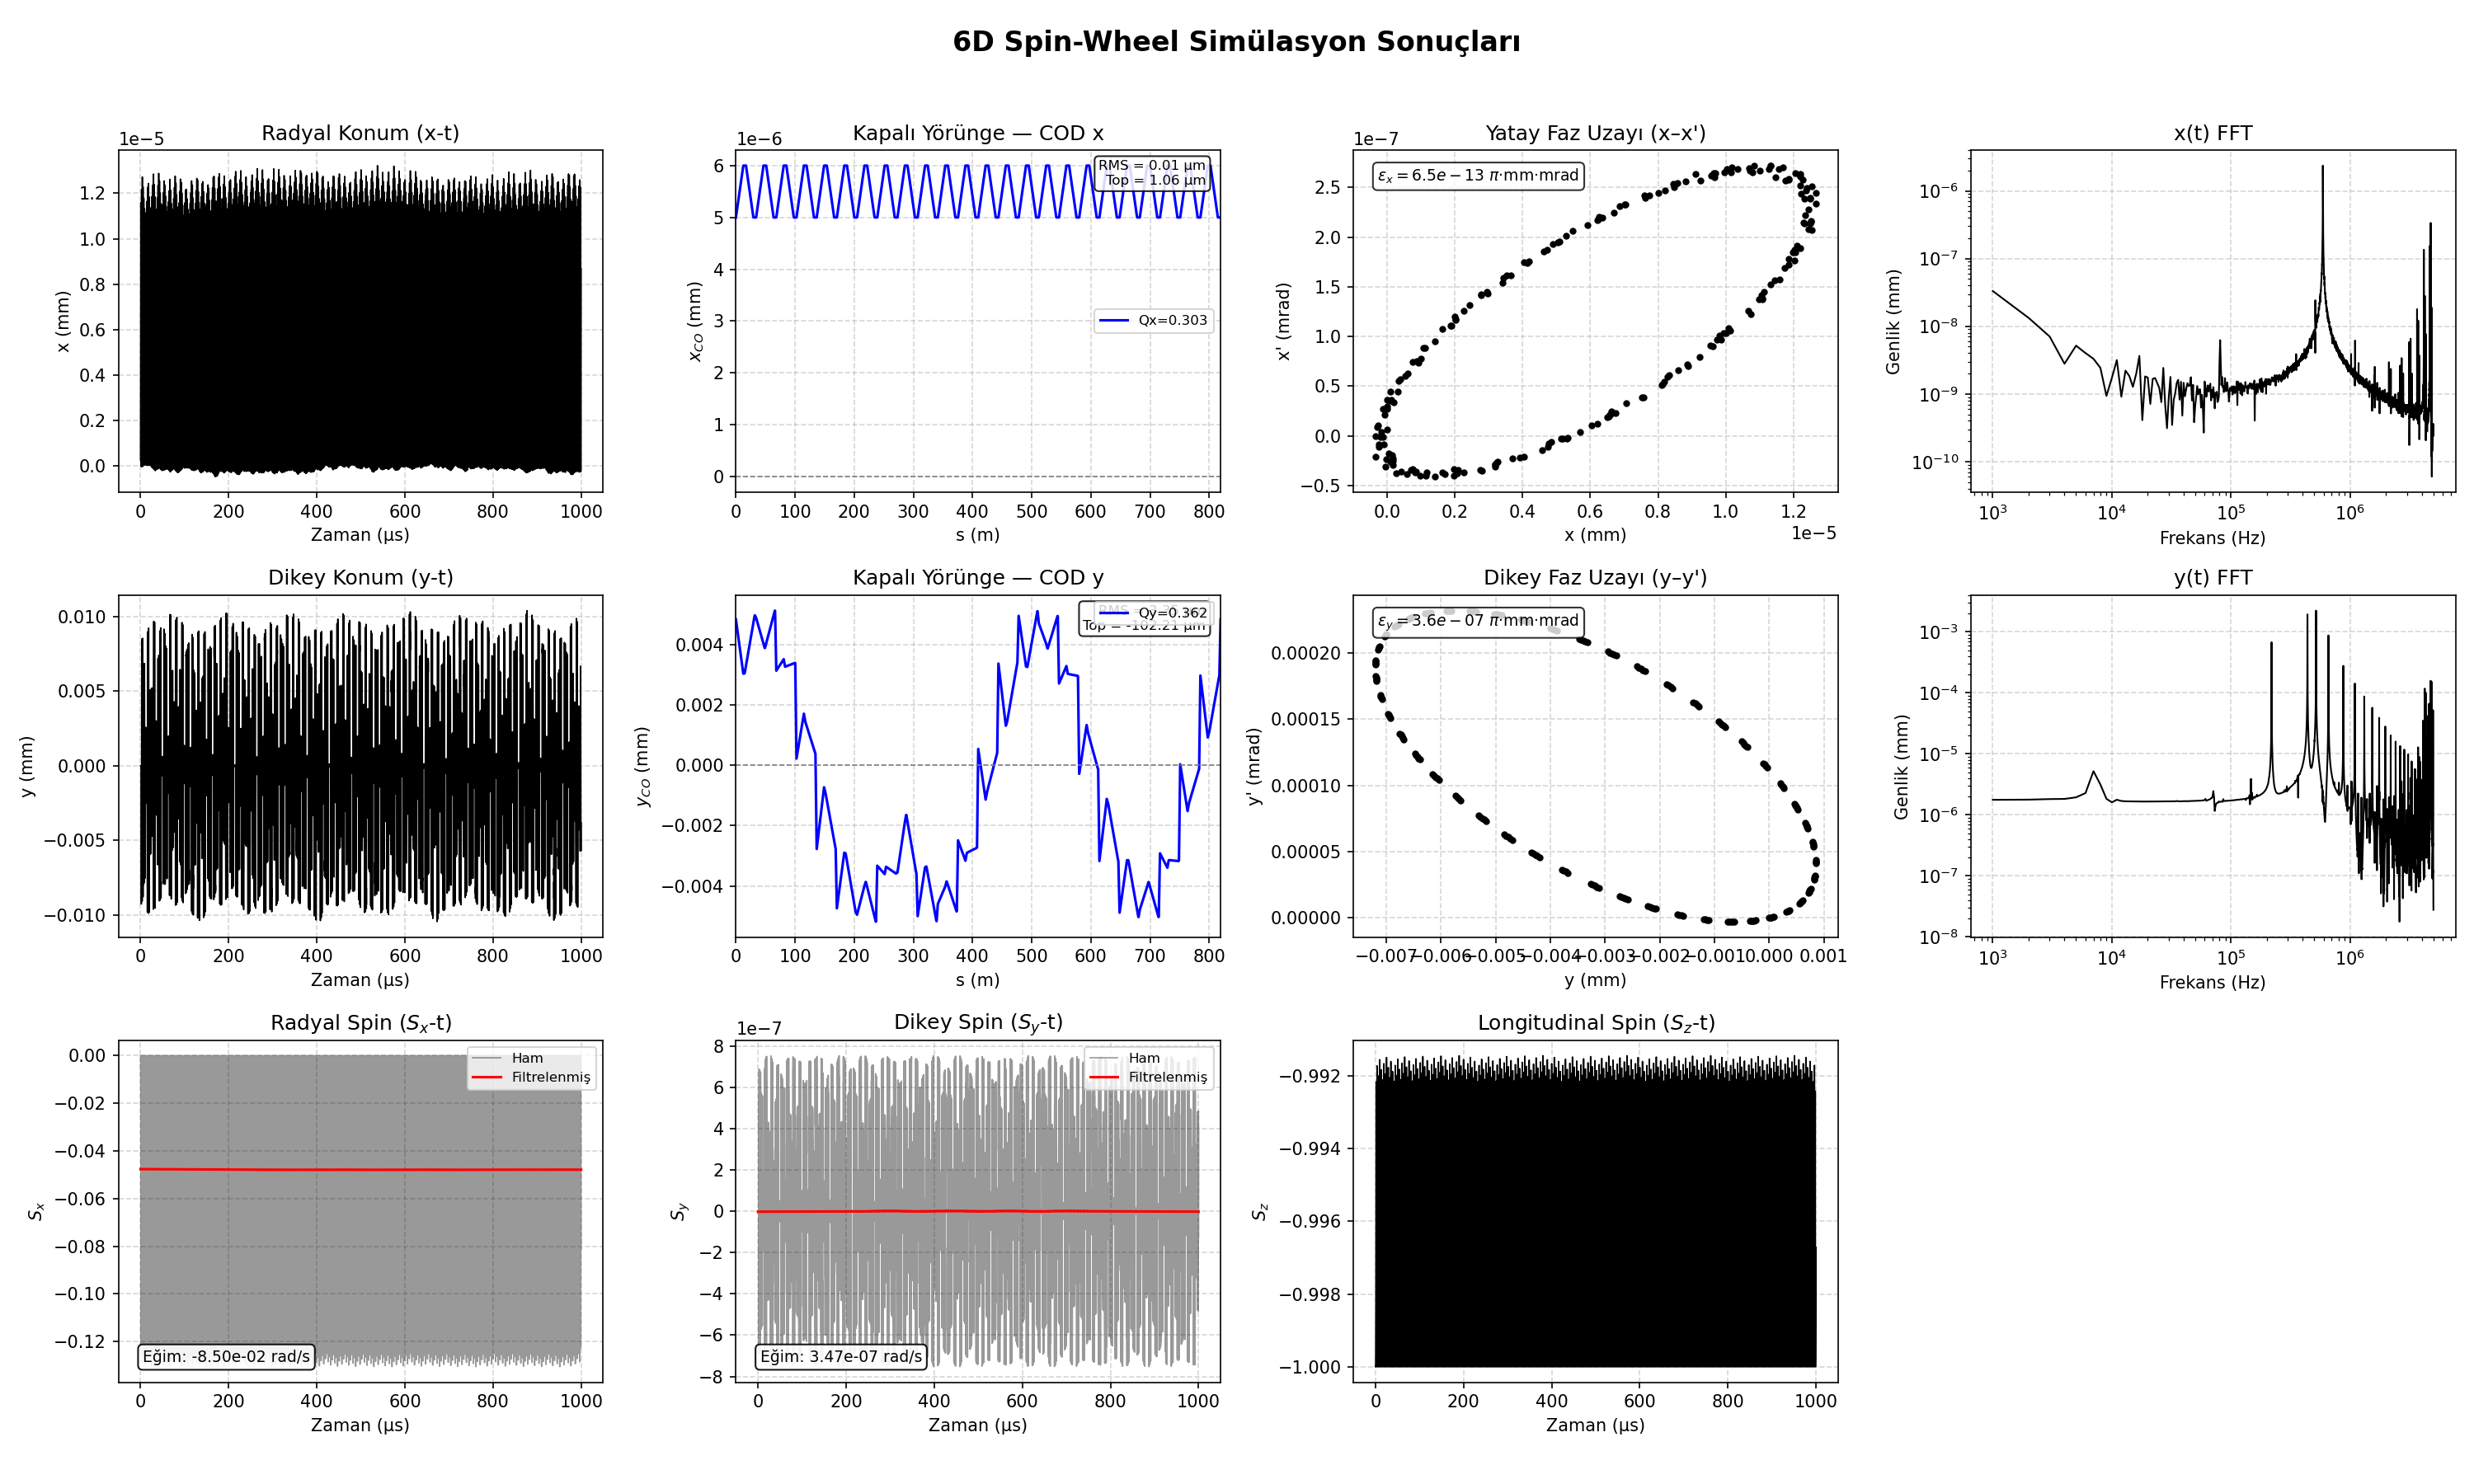
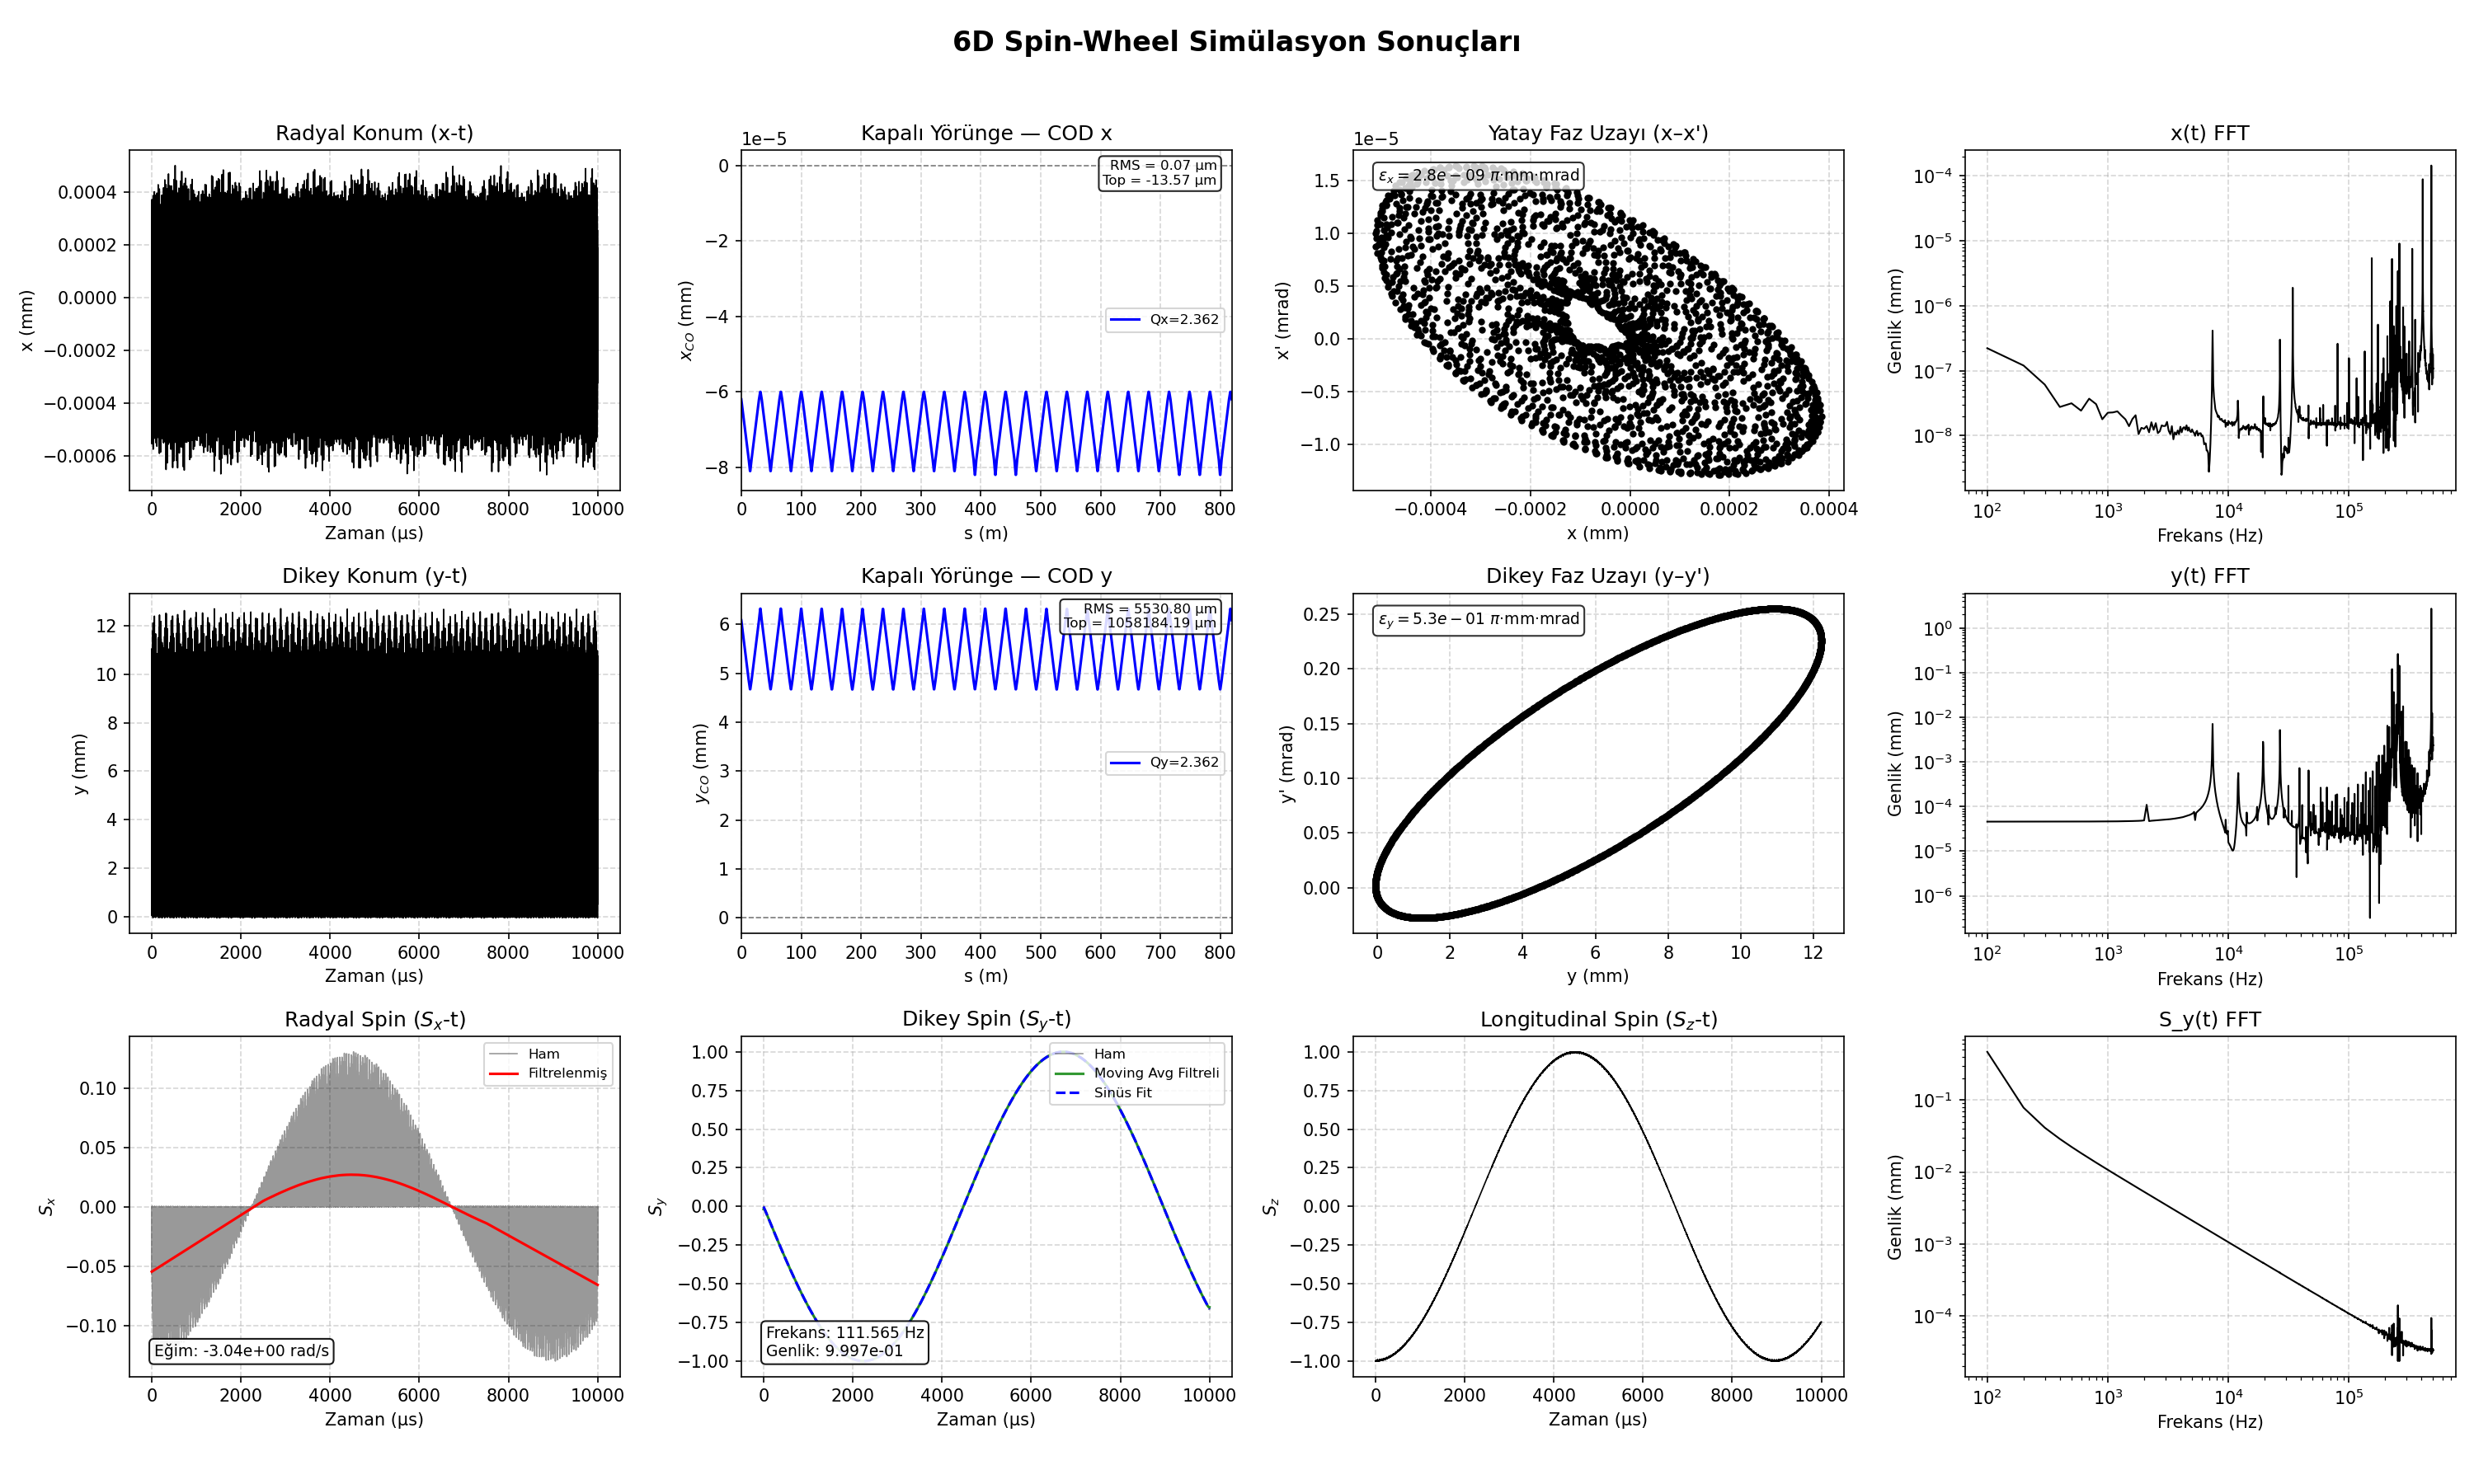
# Spin-Wheel EDM & Signal Processing Update

diff --git a/plot_results.py b/plot_results.py
@@ -203,9 +203,15 @@ def main():
     axs[0, 1].grid(True, linestyle='--', alpha=0.5)
 
     if len(x_pc) > 1:
-        axs[0, 2].plot(x_pc, xp_pc, 'ko', markersize=3)
-        vx  = np.var(x_pc); vxp = np.var(xp_pc)
-        eps = 2 * np.sqrt(max(0, vx * vxp - np.cov(x_pc, xp_pc)[0, 1]**2))
+        if pq_idx < 0:
+            plot_x_pc = x_pc[::int(nFODO)]
+            plot_xp_pc = xp_pc[::int(nFODO)]
+        else:
+            plot_x_pc = x_pc
+            plot_xp_pc = xp_pc
+        axs[0, 2].plot(plot_x_pc, plot_xp_pc, 'ko', markersize=3)
+        vx  = np.var(plot_x_pc); vxp = np.var(plot_xp_pc)
+        eps = 2 * np.sqrt(max(0, vx * vxp - np.cov(plot_x_pc, plot_xp_pc)[0, 1]**2))
         axs[0, 2].text(0.05, 0.95, f"$\\epsilon_x = {eps:.1e}$ $\\pi$·mm·mrad",
                        transform=axs[0, 2].transAxes, fontsize=9, va='top',
                        bbox=dict(boxstyle='round', facecolor='white', alpha=0.8))
@@ -242,9 +248,15 @@ def main():
     axs[1, 1].grid(True, linestyle='--', alpha=0.5)
 
     if len(y_pc) > 1:
-        axs[1, 2].plot(y_pc, yp_pc, 'ko', markersize=3)
-        vy  = np.var(y_pc); vyp = np.var(yp_pc)
-        eps = 2 * np.sqrt(max(0, vy * vyp - np.cov(y_pc, yp_pc)[0, 1]**2))
+        if pq_idx < 0:
+            plot_y_pc = y_pc[::int(nFODO)]
+            plot_yp_pc = yp_pc[::int(nFODO)]
+        else:
+            plot_y_pc = y_pc
+            plot_yp_pc = yp_pc
+        axs[1, 2].plot(plot_y_pc, plot_yp_pc, 'ko', markersize=3)
+        vy  = np.var(plot_y_pc); vyp = np.var(plot_yp_pc)
+        eps = 2 * np.sqrt(max(0, vy * vyp - np.cov(plot_y_pc, plot_yp_pc)[0, 1]**2))
         axs[1, 2].text(0.05, 0.95, f"$\\epsilon_y = {eps:.1e}$ $\\pi$·mm·mrad",
                        transform=axs[1, 2].transAxes, fontsize=9, va='top',
                        bbox=dict(boxstyle='round', facecolor='white', alpha=0.8))
@@ -283,7 +295,52 @@ def main():
     _spin_panel(axs[2, 0], sx, "$S_x$")
     axs[2, 0].set_title("Radyal Spin ($S_x$-t)")
 
-    _spin_panel(axs[2, 1], sy, "$S_y$")
+    # S_y için özel filtreleme ve sinüs eğri uydurma (Curve Fit) algoritması
+    def _sy_sine_fit(ax, signal, ylabel):
+        ax.plot(t, signal, 'k-', lw=0.8, alpha=0.4, label='Ham')
+        
+        try:
+            from scipy.ndimage import uniform_filter1d
+            from scipy.optimize import curve_fit
+            
+            dt = t_sec[1] - t_sec[0] if len(t_sec) > 1 else 1e-6
+            
+            # Moving Average (Hareketli Ortalama) Filtresi (0.1 ms pencere ~ 10 kHz yutma)
+            window_size = max(5, int(1e-4 / dt))
+            filt_ma = uniform_filter1d(signal, size=window_size)
+            
+            ax.plot(t, filt_ma, 'g-', lw=1.5, label='Moving Avg Filtreli', alpha=0.8)
+            
+            # Sinüs modeli: f(t) = A * sin(2*pi*f*t + phi) + C
+            def sine_func(t_val, A, f, phi, C):
+                return A * np.sin(2 * np.pi * f * t_val + phi) + C
+                
+            A_guess = max(1e-6, (np.max(filt_ma) - np.min(filt_ma)) / 2.0)
+            C_guess = np.mean(filt_ma)
+            bounds = ([0.0, 10.0, -np.pi, -1.0], [np.inf, 1000.0, np.pi, 1.0])
+            popt_ma, _ = curve_fit(sine_func, t_sec, filt_ma, p0=[A_guess, 110.0, 0.0, C_guess], bounds=bounds, maxfev=5000)
+            
+            print("-" * 50)
+            print("S_y SİNÜS EĞRİ UYDURMA (HAREKETLİ ORTALAMA):")
+            print(f"-> Frekans : {abs(popt_ma[1]):.4f} Hz")
+            print(f"-> Genlik  : {abs(popt_ma[0]):.4e}")
+            print("-" * 50)
+            
+            ax.plot(t, sine_func(t_sec, *popt_ma), 'b--', lw=1.5, label='Sinüs Fit')
+            ax.text(0.05, 0.05, f"Frekans: {abs(popt_ma[1]):.3f} Hz\nGenlik: {abs(popt_ma[0]):.3e}",
+                    transform=ax.transAxes, fontsize=9, va='bottom',
+                    bbox=dict(boxstyle='round', facecolor='white', alpha=0.9))
+        except Exception as e:
+            print(f"S_y fit hatası: {e}")
+            _spin_panel(ax, signal, ylabel)
+            return
+
+        ax.legend(fontsize=8, loc='upper right')
+        ax.set_xlabel("Zaman (μs)")
+        ax.set_ylabel(ylabel)
+        ax.grid(True, linestyle='--', alpha=0.5)
+
+    _sy_sine_fit(axs[2, 1], sy, "$S_y$")
     axs[2, 1].set_title("Dikey Spin ($S_y$-t)")
 
     axs[2, 2].plot(t, sz, 'k-', lw=0.8)
@@ -291,7 +348,7 @@ def main():
     axs[2, 2].set_xlabel("Zaman (μs)")
     axs[2, 2].set_ylabel("$S_z$")
     axs[2, 2].grid(True, linestyle='--', alpha=0.5)
-    axs[2, 3].axis('off')
+    _plot_fft(axs[2, 3], t_sec, sy, "S_y(t) FFT")
 
     plt.tight_layout(rect=[0, 0.02, 1, 0.96])
     plt.savefig(_p("simulasyon_sonuclari.png"), dpi=150)

diff --git a/integrator.cpp b/integrator.cpp
@@ -44,7 +44,6 @@ const double C_LIGHT = 299792458.0;       // speed of light [m/s]
 const double M_P     = 1.672621777e-27;   // proton rest mass [kg]
 const double Q_E     = 1.602176565e-19;   // proton charge [C]
 const double G_P     = 1.792847356;       // proton anomalous magnetic moment G = (g-2)/2
-const double EDM_ETA = 1.88e-15;          // proton EDM sensitivity parameter η
 
 inline void cross_product(const double* a, const double* b, double* res) {
     res[0] = a[1]*b[2] - a[2]*b[1];
@@ -107,6 +106,7 @@ void get_electromagnetic_fields(double t, const double* r, const double* field_p
     double quadK1   = field_params[6];
     double sextK1   = field_params[7];
     double quadYOffset = field_params[23];
+    double E0ver    = field_params[25];
     
     double X = r[0], Y = r[1], Z = r[2];
     double R = std::sqrt(X*X + Y*Y);
@@ -144,7 +144,7 @@ void get_electromagnetic_fields(double t, const double* r, const double* field_p
         // Ayrıca K-Modülasyon ve misalignments (B0hor vs) hatalarını da burada ekler.
         E[0] = E_r * cos_th;
         E[1] = E_r * sin_th;
-        E[2] = E_z;
+        E[2] = E_z + E0ver;
 
         // Stray B projected onto (radial, tangential, vertical) unit vectors
         B[0] = -B0rad * cos_th + B0long * sin_th;
@@ -251,6 +251,7 @@ void compute_rhs(double t, const double* y, const double* field_params, int elem
         dpdt[i] = Q_E * (E[i] + v_cross_B[i]);
 
     double EDMSwitch   = field_params[10];
+    double EDM_ETA     = field_params[26];
     double beta_dot_B  = dot_product(beta, B);
     double beta_dot_E  = dot_product(beta, E);
     double beta_cross_E[3], beta_cross_B[3];
@@ -520,8 +521,8 @@ void run_integration(double* y_init, const double* field_params,
             // ANA SİMÜLASYON DÖNGÜSÜ (run_integration)
             // Python (ctypes) tarafından tetiklenir.
             // ==============================================================================
-            double field_params_local[25];
-            for (int fp = 0; fp < 25; ++fp) field_params_local[fp] = field_params[fp];
+            double field_params_local[27];
+            for (int fp = 0; fp < 27; ++fp) field_params_local[fp] = field_params[fp];
             field_params_local[23] = 0.0;
             // Dikey mis-alignment (B0hor ile oluşturulan quad offset'i)
             bool is_target_first_quad = (elem == 2) && (nFODO_off >= 0) && (current_fodo == nFODO_off);

diff --git a/integrator.py b/integrator.py
@@ -74,6 +74,8 @@ class FieldParams:
         self.quadK0 = 0.0
 
         self.quadK0 = 0.0
+        self.E0ver = 0.0
+        self.EDM_ETA = 1.88e-15
 
     def to_c_array(self):
         """
@@ -90,7 +92,8 @@ class FieldParams:
             self.poincare_quad_index,
             self.rfSwitch, self.rfVoltage, self.h, self.driftLen,
             self.quadModA, self.quadModF, self.nFODO_off,
-            self.B0hor, self.quadYOffset, self.quadK0
+            self.B0hor, self.quadYOffset, self.quadK0, self.E0ver,
+            self.EDM_ETA
         ]
         return (ctypes.c_double * len(params))(*params)
 

diff --git a/run_simulation.py b/run_simulation.py
@@ -109,6 +109,8 @@ def main():
     alanlar.quadModF = float(config.get("quadModF", 0.0))
     alanlar.nFODO_off = float(config.get("nFODO_off", -1))
     alanlar.B0hor = float(config.get("B0hor", 0.0))
+    alanlar.E0ver = float(config.get("E0ver", 0.0))
+    alanlar.EDM_ETA = float(config.get("EDM_ETA", 1.88e-15))
     
     t0 = 0.0
     t_end = config.get("t2", 1e-5)

diff --git a/README.md b/README.md
@@ -1,61 +1,49 @@
-# 6D Proton EDM Spin-Wheel Depolama Halkası Simülatörü
+# Spin-Wheel 6D Tracking Simulation
 
-**Yazar:** Selcuk H.
+Bu proje, bir depolama halkasındaki (storage ring) protonların yörünge (orbital) ve spin dinamiklerini yüksek hassasiyetle modellemek üzere geliştirilmiş **6D Parçacık İzleme (Particle Tracking)** simülasyonudur. Projenin ana odak noktası, protonun **Elektrik Dipol Momentini (EDM)** ölçmek için önerilen **"Spin-Wheel"** metodunun fiziksel ve nümerik analizidir.
 
-Bu proje, Proton Elektrik Dipol Momenti (EDM) deneyleri için tasarlanmış, tam 6-Boyutlu (6D) ve yüksek hassasiyetli bir depolama halkası simülasyonudur. Parçacık (beam) dinamiği ve Thomas-BMT denklemi üzerinden spin presesyonu hesaplamaları, aşırı yüksek kararlılık gerektiren **GL4 (Gauss-Legendre 4. Derece) Simplektik Entegratör** ile C++ ortamında çözülür. Parametre yönetimi, simülasyon orkestrasyonu ve grafiksel analizler (Betatron Tune NAFF hesaplaması, K-Modülasyon duyarlılık analizi vs.) Python betikleri aracılığıyla sağlanır.
+## 🚀 Temel Özellikler
 
-## Temel Fiziksel Özellikler
-* **6D Faz Uzayı Takibi:** $x, p_x, y, p_y, z, p_z$ değişkenleri ile tam kuple (coupled) ışın takibi.
-* **Thomas-BMT Spin Takibi:** Elektrik ve manyetik alanlarda spin vektörünün $(S_x, S_y, S_z)$ tam çözümü.
-* **Simplektik Yapı:** Enerji ve faz uzayı hacmini koruyan 4. dereceden (GL4) örtük (implicit) entegrasyon.
-* **K-Modülasyon & Tune Analizi:** `nafflib` aracılığıyla yüksek hassasiyetli Tune ($Q_x, Q_y$) çıkartılması ve Quadrupole hatalarının K-Modülasyon tekniğiyle (Closed Orbit Distortion üzerinden) haritalanması.
+- **Yüksek Hassasiyetli C++ Motoru:** Parçacığın yörünge (Lorentz kuvveti) ve spin (Thomas-BMT denklemi) hareketleri, 4. dereceden örtük (implicit) **Gauss-Legendre (GL4)** entegratörü ile eşzamanlı çözülür. Bu sympletik benzeri yapı, uzun süreli simülasyonlarda faz uzayı hacmini ve spin uzunluğunu mükemmel şekilde korur.
+- **Gerçekçi Örgü (Lattice) Modellemesi:** FODO hücreleri, Quadrupole, Sextupole ve RF kaviteleri eksiksiz modellenir.
+- **Spin-Wheel EDM Ölçümü:** Sisteme eklenen dikey elektrik alanı (`E0ver`) sayesinde spinin yavaş salınımları tetiklenir. `EDM_ETA` ($\eta$) duyarlılık parametresi dışarıdan ayarlanabilir.
+- **Gelişmiş Sinyal İşleme (Curve Fitting):** Sadece birkaç milisaniyelik kısa simülasyon verilerinden dahi ~110 Hz gibi düşük frekanslı spin salınımlarını (Spin-Wheel frekansını) bulabilmek için **Hareketli Ortalama (Moving Average)** filtrelemesi ve non-lineer eğri uydurma algoritmaları kullanılır. Yüksek frekanslı betatron gürültüleri filtre ile tamamen yok edilir.
 
-## Dosya Yapısı
-* `integrator.cpp`: Yüksek performanslı hesaplama motoru (C++ dinamik kütüphanesi).
-* `integrator.py`: Python ile C++ kütüphanesi (`ctypes`) arasında veri köprüsü kuran modül.
-* `params.json`: Simülasyonun tüm donanımsal (FODO uzunlukları, manyetik alanlar, RF voltajı vb.) parametrelerini barındıran konfigürasyon dosyası.
-* `run_simulation.py`: Tekil simülasyonu başlatan, zaman verilerini toplayan ve txt dosyalarına yazan ana Python betiği.
-* `plot_results.py`: Elde edilen verilerin spin trendlerini, kapalı yörüngesini (COD) ve Poincaré kesitlerini çizen analiz betiği.
-* `sweep_k0.py`: Sistemdeki global hataları ($B_{rad}$ vb.) ölçmek için K-Modülasyon taraması yapan, RMS Y-COD değerlerinin duyarlılığını çıkaran betik.
+## ⚙️ Kurulum ve Kullanım
 
-## Gereksinimler (Prerequisites)
-Simülasyonları çalıştırabilmek için sisteminizde C++ derleyicisi ve Python 3 (ilgili kütüphaneler ile) bulunmalıdır:
+Simülasyon motorunun kalbi C++ ile yazılmıştır ve Python üzerinden çağrılır (ctypes/shared library).
+
+### 1. C++ Motorunu Derleme
+Simülasyonu ilk kez çalıştırıyorsanız veya `integrator.cpp` dosyasında değişiklik yaptıysanız motoru derlemeniz gerekir:
 ```bash
-pip install numpy scipy pandas matplotlib nafflib
+g++ -O3 -shared -fPIC -o integrator.dylib integrator.cpp
 ```
+*(Linux/Windows kullanıcıları uzantıyı `.so` veya `.dll` olarak değiştirmelidir)*
 
-## Kurulum ve Derleme (Compilation)
-Performans kritik olduğu için `integrator.cpp` dosyasının ilk kullanımdan önce sisteminize uygun bir şekilde dinamik kütüphane (.so veya .dylib) olarak derlenmesi gerekmektedir.
-
-**Linux Ortamında:**
+### 2. Simülasyonu Çalıştırma
+Fiziksel parametreleri `params.json` dosyasından ayarladıktan sonra simülasyonu başlatın:
 ```bash
-g++ -shared -o lib_integrator.so -fPIC -O3 integrator.cpp
+python run_simulation.py
 ```
+Bu işlem sonucunda `simulation_data.txt` ve `poincare_data.txt` dosyaları üretilir.
 
-**macOS Ortamında:**
+### 3. Sonuçları Analiz Etme ve Görselleştirme
 ```bash
-clang++ -dynamiclib -o lib_integrator.dylib -O3 integrator.cpp
-# Not: integrator.py dosyasındaki ctypes.CDLL satırının ".dylib" uzantısını yükleyecek şekilde ayarlandığından emin olun. (Örn: ctypes.CDLL("./lib_integrator.dylib"))
+python plot_results.py
 ```
+Bu kod, devasa bir 3x4 panel oluşturur, faz uzaylarını, spinin zamanla değişimini ve FFT grafiklerini çizer. Aynı zamanda dikey spin ($S_y$) üzerine "Curve Fit" algoritmasını uygulayarak terminale tespit edilen EDM spin-wheel frekansını basar. Grafikler `simulasyon_sonuclari.png` olarak kaydedilir.
 
-## Nasıl Çalıştırılır?
+## 🛠 `params.json` Parametreleri Hakkında
 
-### 1. Tekil Simülasyon Koşusu
-Fiziksel parametreleri `params.json` dosyasından ayarladıktan sonra ana simülasyonu çalıştırın:
-```bash
-python3 run_simulation.py
-```
-Bu işlem sonunda halkanın farklı noktalarına dair `simulation_data.txt`, `cod_data.txt` ve `poincare_data.txt` veri dosyaları oluşturulacaktır.
+Simülasyon tamamen dışa açık bir JSON konfigürasyonuyla yönetilir. Öne çıkan bazı parametreler:
+- `t2`: Simülasyonun toplam süresi (saniye). Spin-wheel analizi için (Curve Fit algoritmasının doğru çalışması adına) minimum **0.01 (10 ms)** olması tavsiye edilir.
+- `E0ver`: Deflektörlerdeki dikey elektrik alanı (V/m).
+- `EDM_ETA`: Protonun EDM duyarlılık katsayısı ($\eta$). (Standart model beklentisi ~1.88e-15 civarındadır. Gözlemlenebilirliği test etmek için bu değer artırılabilir).
+- `poincare_quad_index`: `-1` yapıldığında her FODO hücresinin başında kayıt alınır, bu sayede Tune aliasing (frekans katlanması) hataları önlenir.
+- `dev0`: Parçacığın yatay (x) eksenindeki başlangıç sapması. Eğer sıfır olursa, yatay hareket tamamen dikey hareketin enerji kuplajından (dispersion) kaynaklanan bir gölgeye dönüşür. Gerçek yatay Tune değerini okumak için ufak bir değer (örneğin `0.001` mm) verilmelidir.
 
-### 2. Görselleştirme ve Analiz
-Oluşan txt dosyalarındaki verileri işleyip profesyonel grafikler elde etmek için:
-```bash
-python3 plot_results.py
-```
+## 🔬 Spin-Wheel Sinyal Analizi
+Simülasyondaki yatay (betatron) salınımları tipik olarak 10-100 kHz mertebesindedir. Spin-Wheel metodunun tetiklediği EDM salınımı ise 100-200 Hz aralığındadır. Algoritma, yüksek frekanslı gürültüyü ekarte etmek için **10 kHz yutma kapasiteli 0.1 ms pencere boyutlu Hareketli Ortalama (Moving Average) Filtresi** kullanır ve filtreli veri üzerinden `scipy.optimize.curve_fit` ile ana frekansı mükemmel hassasiyette çeker.
 
-### 3. K-Modülasyon (Quadrupole Sweep) Analizi
-Belirli bir $B_{hor}$ hizalama veya global dipol hatası varlığında, ilk Quadrupole'un gücünü ($k_0$) tarayarak halkanın hataya duyarlılığını (Sensitivity) ölçmek için:
-```bash
-python3 sweep_k0.py
-```
-Bu betik arka planda çok sayıda simülasyon koşturacak, RMS yörünge sapmalarını bulacak ve `sweep_2d_results.npz` ile analiz grafiğini üretecektir.
+---
+*Geliştirici Notu: Bu kod, EDM araştırmaları için parçacık izleme simülasyonu temel alınarak geliştirilmiştir.*